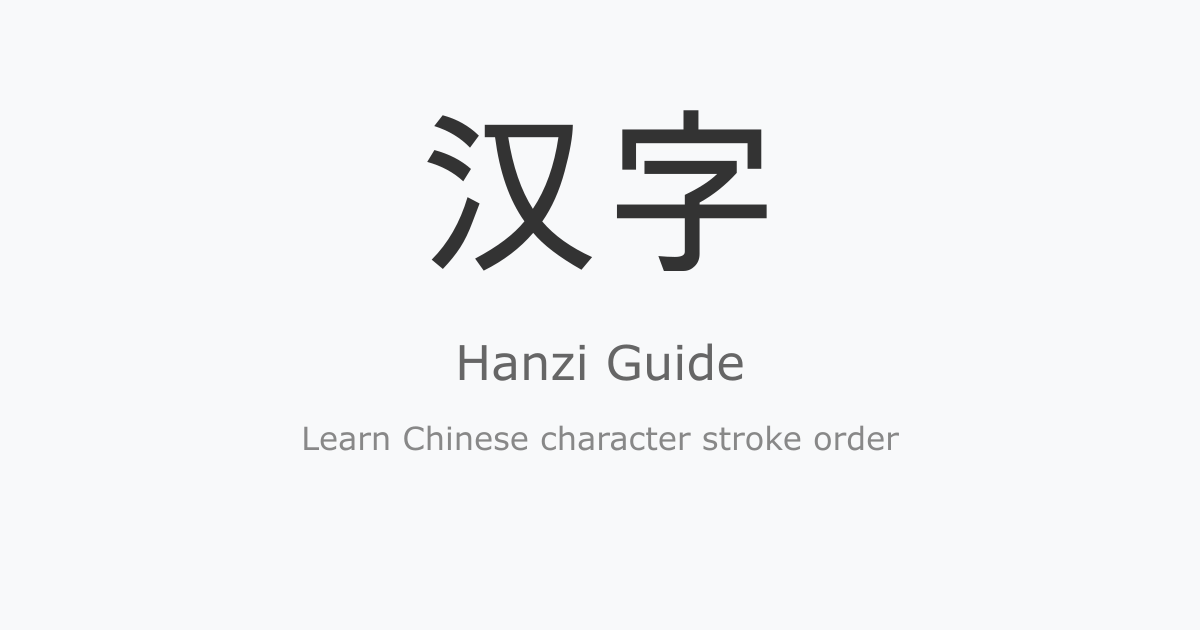
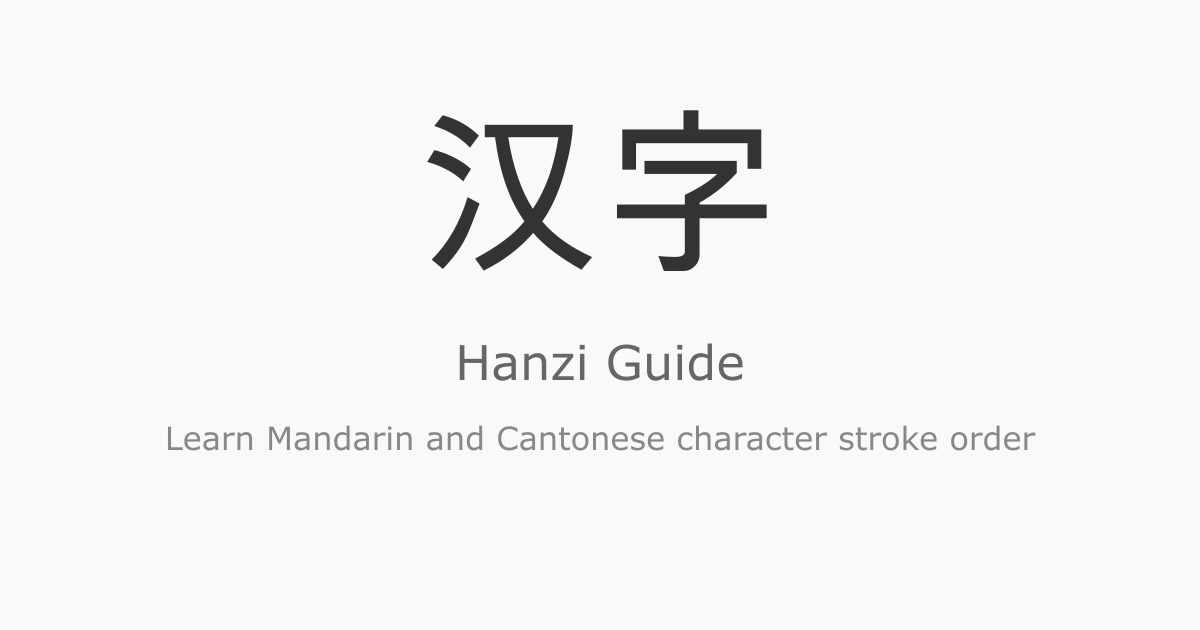
Update language references from Chinese to Mandarin and Cantonese

Changed region(s): [[0.1233, 0.6635, 0.8633, 0.7238]]

diff --git a/index.html b/index.html
@@ -1,7 +1,7 @@
 ---
 layout: default
 js: index.js
-title: Learn to Write Chinese Characters - Hanzi Guide
+title: Learn to Write Mandarin and Cantonese Characters - Hanzi Guide
 ---
 <script>
   // Client-side router: extract chars from path immediately
@@ -16,7 +16,7 @@ title: Learn to Write Chinese Characters - Hanzi Guide
 <div class="demo container" id="practice">
   <h1>Hanzi Guide</h1>
   <p class="lead">
-    Learn to write Chinese characters with proper stroke order.
+    Learn to write Mandarin and Cantonese characters with proper stroke order.
     <span class="text-muted">Powered by <a href="https://github.com/chanind/hanzi-writer" target="_blank">hanzi-writer</a>.</span>
   </p>
   
@@ -64,7 +64,7 @@ title: Learn to Write Chinese Characters - Hanzi Guide
     <div class="sub-feature">
       <h4>9000+ characters</h4>
       <p>
-        Access over 9000 of the most common simplified and traditional Chinese characters.
+        Access over 9000 of the most common simplified and traditional Mandarin and Cantonese characters.
         Character data from the <a target="_blank" href="https://github.com/skishore/makemeahanzi">Make Me a Hanzi</a> project.
       </p>
     </div>
